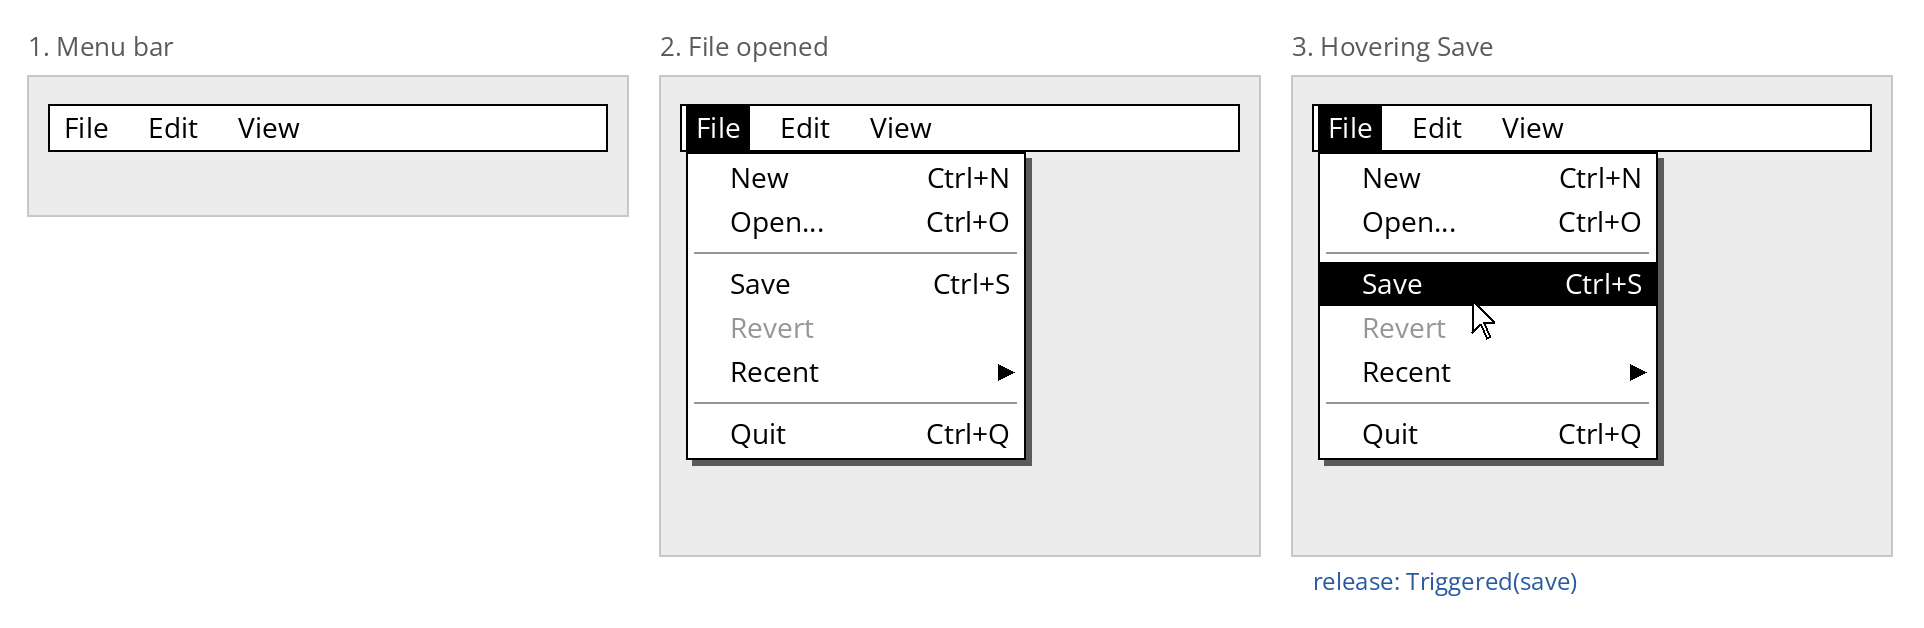
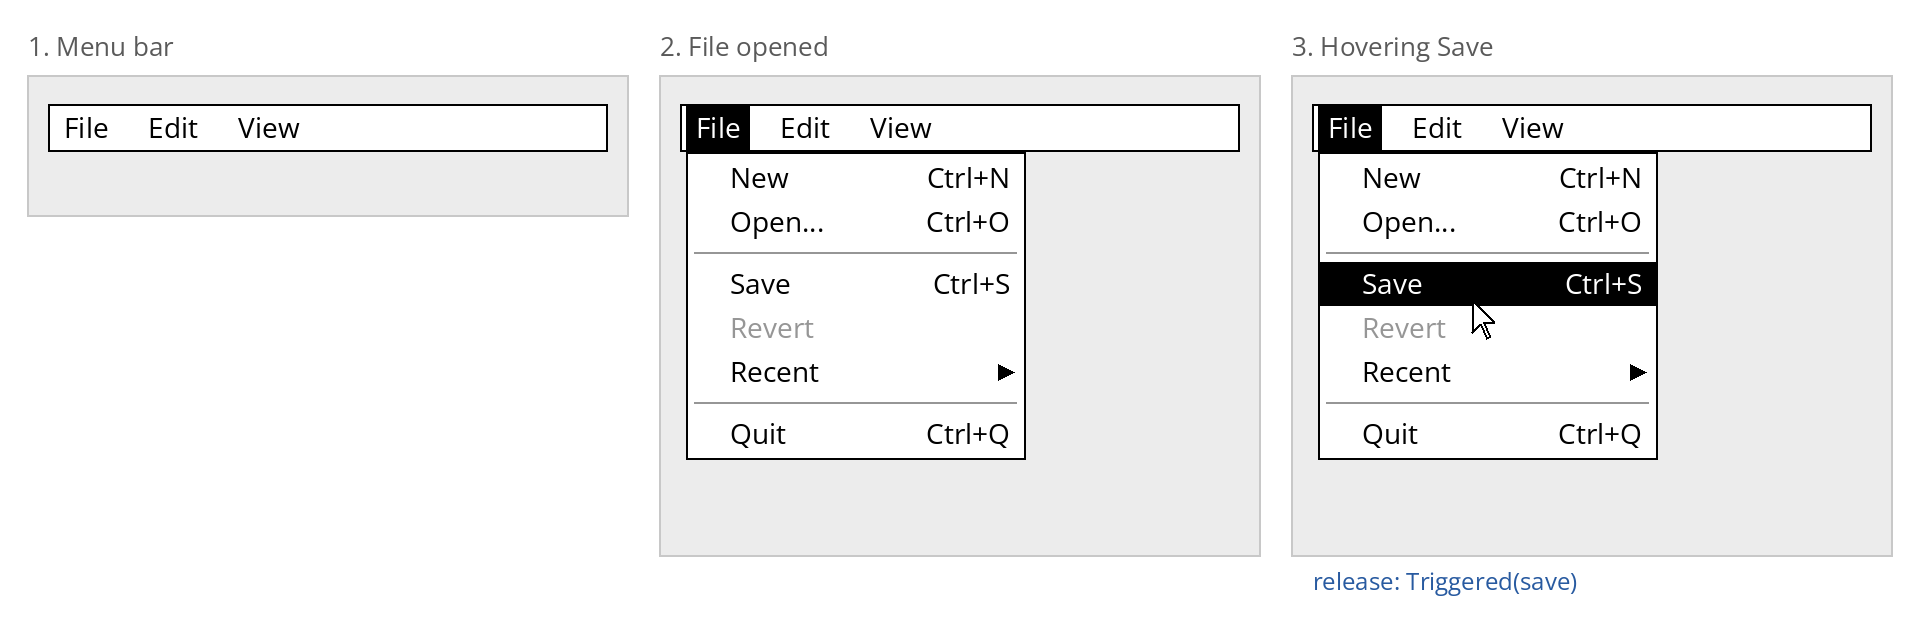
docs: no shadows (menus and pop-ups included)
Claude-Session: https://claude.ai/code/session_014QbAny3BSUJNBZtu6oJccA

Changed region(s): [[0.6861, 0.7261, 0.8732, 0.7564], [0.343, 0.7261, 0.5301, 0.7564]]

diff --git a/docs/mockups/generate.py b/docs/mockups/generate.py
@@ -198,7 +198,6 @@ class C:
     def menu(self, x, y, w, items, hover=None):
         """items: list of (label, shortcut, flags) flags in {'sep','disabled','sub','check'}"""
         h = sum(9 if "sep" in f else 22 for _, _, f in items) + 4
-        self.rect(x + 3, y + 3, w, h, fill=DARK, outline=None)   # drop shadow
         self.rect(x, y, w, h, fill=WHITE)
         cy = y + 2
         for n, (label, sc, f) in enumerate(items):

diff --git a/docs/ROADMAP_EXTENSIBLE_WIDGET_LIBRARY.md b/docs/ROADMAP_EXTENSIBLE_WIDGET_LIBRARY.md
@@ -18,7 +18,7 @@ This roadmap builds on the core modernization in #10 (`dyn Widget` tree, `Widget
 - **Shared behavior lives in the core.** Flags, states, focus, clipping, and events are implemented once (Epic 1, Epic 5), so a new widget gets them for free.
 - **IDs are the contract.** Widgets are addressed by stable IDs, like the numbered objects in classic resource files. Forms, generated constants, and callbacks all key off IDs.
 - **Runtime first, designer second.** Epic 6 builds everything Chassis needs (registry, properties, form file format, loader/writer, design-mode hooks) into Pushrod itself.
-- **Keep it stupid simple.** Widgets are flat: fills, one-pixel borders, and text. No glass, no bevels, no rounded corners. Fancy looks are up to the application (custom paint, 2.10 (#36); theming hooks, Epic 8, not scheduled). See [`DESIGN_PHILOSOPHY.md`](../DESIGN_PHILOSOPHY.md).
+- **Keep it stupid simple.** Widgets are flat: fills, one-pixel borders, and text. No glass, no bevels, no shadows, no rounded corners. Fancy looks are up to the application (custom paint, 2.10 (#36); theming hooks, Epic 8, not scheduled). See [`DESIGN_PHILOSOPHY.md`](../DESIGN_PHILOSOPHY.md).
 - **Modern names.** Older systems are credited for ideas only. Pushrod's flags, events, and callbacks use plain, modern names, collected in the *Naming* section so they can be reviewed in one place.
 - **Retained, with stable identity.** Widgets persist and keep stable IDs, which is what accessibility trees, caching, incremental updates, and form files all need.
 - **Engine separate from design.** The engine (tree, events, invalidation, paint API) and the design layer (widgets, defaults, appearance, themes) are separate modules with written specs (7.6 (#114)).

diff --git a/DESIGN_PHILOSOPHY.md b/DESIGN_PHILOSOPHY.md
@@ -46,7 +46,7 @@ the rest respond.
 | Pressed or selected | Inverted colors |
 | Disabled | Dithered |
 | Keyboard focus | A dotted outline |
-| Pop-up menus | A hard-edged, solid offset shadow so they read as floating (no blur) |
+| Pop-up menus | The same white body and one-pixel border as any other widget, drawn above what they cover |
 
 Widget frames are rectangles. A shape may be round only when the roundness *is* the control:
 the radio button's circle, the dial, the busy spinner.
@@ -59,7 +59,8 @@ Each widget's exact look and behavior is specified in its own roadmap file under
 - No glass, translucency, or blur.
 - No beveled edges, 3D shading, or embossing.
 - No rounded corners on widgets.
-- No gradients and no soft or blurred shadows.
+- No gradients and no shadows, including under menus and pop-ups. (Pop-up shadows may be
+  reconsidered after the MVP; they aren't needed for the look.)
 - No decorative animation. Animation only where it carries information (a progress bar's busy
   mode, the busy spinner), and it stops when nothing is happening.
 - No OS-native menus, dialogs, or controls.

diff --git a/docs/widgets/image-button.md b/docs/widgets/image-button.md
@@ -25,7 +25,7 @@ Each image shows the widget step by step, drawn in Pushrod's current style; blue
 
 ![2.21 step set 1: Image only, image left of label, image above label; normal, pressed, toggled, disabled](../mockups/2.21-1.png)
 
-Drawn flat, in the standard Pushrod style: fills, one-pixel borders, and text; inverted when pressed or selected, dithered when disabled, a dotted outline when focused. No bevels, gradients, glass, or rounded corners (see the [design philosophy](../../DESIGN_PHILOSOPHY.md)).
+Drawn flat, in the standard Pushrod style: fills, one-pixel borders, and text; inverted when pressed or selected, dithered when disabled, a dotted outline when focused. No bevels, gradients, shadows, glass, or rounded corners (see the [design philosophy](../../DESIGN_PHILOSOPHY.md)).
 
 ## How it responds
 

diff --git a/docs/widgets/glyph-button.md b/docs/widgets/glyph-button.md
@@ -25,7 +25,7 @@ Each image shows the widget step by step, drawn in Pushrod's current style; blue
 
 ![2.2 step set 1: 1. Idle 2. Pressed (fires immediately) 3. Held: repeats 4. Released 5. Disabled](../mockups/2.2-1.png)
 
-Drawn flat, in the standard Pushrod style: fills, one-pixel borders, and text; inverted when pressed or selected, dithered when disabled, a dotted outline when focused. No bevels, gradients, glass, or rounded corners (see the [design philosophy](../../DESIGN_PHILOSOPHY.md)).
+Drawn flat, in the standard Pushrod style: fills, one-pixel borders, and text; inverted when pressed or selected, dithered when disabled, a dotted outline when focused. No bevels, gradients, shadows, glass, or rounded corners (see the [design philosophy](../../DESIGN_PHILOSOPHY.md)).
 
 ## How it responds
 

diff --git a/docs/widgets/menu-bar-and-menus.md b/docs/widgets/menu-bar-and-menus.md
@@ -25,7 +25,7 @@ Each image shows the widget step by step, drawn in Pushrod's current style; blue
 
 ![2.11 step set 1: 1. Idle 2. File opened (overlay) 3. Hovering Save 4. Release: Save triggered](../mockups/2.11-1.png)
 
-Drawn flat, in the standard Pushrod style: fills, one-pixel borders, and text; inverted when pressed or selected, dithered when disabled, a dotted outline when focused. No bevels, gradients, glass, or rounded corners (see the [design philosophy](../../DESIGN_PHILOSOPHY.md)).
+Drawn flat, in the standard Pushrod style: fills, one-pixel borders, and text; inverted when pressed or selected, dithered when disabled, a dotted outline when focused. No bevels, gradients, shadows, glass, or rounded corners (see the [design philosophy](../../DESIGN_PHILOSOPHY.md)).
 
 ## How it responds
 

diff --git a/docs/widgets/radio-button.md b/docs/widgets/radio-button.md
@@ -25,7 +25,7 @@ Each image shows the widget step by step, drawn in Pushrod's current style; blue
 
 ![2.5 step set 1: 1. Medium checked 2. Pressing Large 3. Released: Large checked, Medium cleared](../mockups/2.5-1.png)
 
-Drawn flat, in the standard Pushrod style: fills, one-pixel borders, and text; inverted when pressed or selected, dithered when disabled, a dotted outline when focused. No bevels, gradients, glass, or rounded corners (see the [design philosophy](../../DESIGN_PHILOSOPHY.md)).
+Drawn flat, in the standard Pushrod style: fills, one-pixel borders, and text; inverted when pressed or selected, dithered when disabled, a dotted outline when focused. No bevels, gradients, shadows, glass, or rounded corners (see the [design philosophy](../../DESIGN_PHILOSOPHY.md)).
 
 ## How it responds
 

diff --git a/docs/widgets/column-browser.md b/docs/widgets/column-browser.md
@@ -39,7 +39,7 @@ Each image shows the widget step by step, drawn in Pushrod's current style; blue
 
 ![3.7 step set 2: Many columns: the view scrolls horizontally to keep the newest column visible](../mockups/3.7-2.png)
 
-Drawn flat, in the standard Pushrod style: fills, one-pixel borders, and text; inverted when pressed or selected, dithered when disabled, a dotted outline when focused. No bevels, gradients, glass, or rounded corners (see the [design philosophy](../../DESIGN_PHILOSOPHY.md)).
+Drawn flat, in the standard Pushrod style: fills, one-pixel borders, and text; inverted when pressed or selected, dithered when disabled, a dotted outline when focused. No bevels, gradients, shadows, glass, or rounded corners (see the [design philosophy](../../DESIGN_PHILOSOPHY.md)).
 
 ## How it responds
 

diff --git a/docs/widgets/check-box.md b/docs/widgets/check-box.md
@@ -25,7 +25,7 @@ Each image shows the widget step by step, drawn in Pushrod's current style; blue
 
 ![2.4 step set 1: 1. Unchecked 2. Pressed 3. Checked 4. Indeterminate 5. Focused 6. Disabled](../mockups/2.4-1.png)
 
-Drawn flat, in the standard Pushrod style: fills, one-pixel borders, and text; inverted when pressed or selected, dithered when disabled, a dotted outline when focused. No bevels, gradients, glass, or rounded corners (see the [design philosophy](../../DESIGN_PHILOSOPHY.md)).
+Drawn flat, in the standard Pushrod style: fills, one-pixel borders, and text; inverted when pressed or selected, dithered when disabled, a dotted outline when focused. No bevels, gradients, shadows, glass, or rounded corners (see the [design philosophy](../../DESIGN_PHILOSOPHY.md)).
 
 ## How it responds
 

diff --git a/docs/widgets/list-view.md b/docs/widgets/list-view.md
@@ -25,7 +25,7 @@ Each image shows the widget step by step, drawn in Pushrod's current style; blue
 
 ![4.5 step set 1: 1. Idle 2. Click selects 3. Shift-click extends 4. Double-click activates](../mockups/4.5-1.png)
 
-Drawn flat, in the standard Pushrod style: fills, one-pixel borders, and text; inverted when pressed or selected, dithered when disabled, a dotted outline when focused. No bevels, gradients, glass, or rounded corners (see the [design philosophy](../../DESIGN_PHILOSOPHY.md)).
+Drawn flat, in the standard Pushrod style: fills, one-pixel borders, and text; inverted when pressed or selected, dithered when disabled, a dotted outline when focused. No bevels, gradients, shadows, glass, or rounded corners (see the [design philosophy](../../DESIGN_PHILOSOPHY.md)).
 
 ## How it responds
 

diff --git a/docs/widgets/container.md b/docs/widgets/container.md
@@ -44,7 +44,7 @@ Each image shows the widget step by step, drawn in Pushrod's current style; blue
 
 ![5.3 step set 2: Resizing and moving the container: the content keeps its size and layout](../mockups/5.3-2.png)
 
-Drawn flat, in the standard Pushrod style: fills, one-pixel borders, and text; inverted when pressed or selected, dithered when disabled, a dotted outline when focused. No bevels, gradients, glass, or rounded corners (see the [design philosophy](../../DESIGN_PHILOSOPHY.md)).
+Drawn flat, in the standard Pushrod style: fills, one-pixel borders, and text; inverted when pressed or selected, dithered when disabled, a dotted outline when focused. No bevels, gradients, shadows, glass, or rounded corners (see the [design philosophy](../../DESIGN_PHILOSOPHY.md)).
 
 ## How it responds
 

diff --git a/docs/widgets/spinner.md b/docs/widgets/spinner.md
@@ -25,7 +25,7 @@ Each image shows the widget step by step, drawn in Pushrod's current style; blue
 
 ![4.10 step set 1: Spinner frames while running, stopped, and the outline-mode fallback](../mockups/4.10-1.png)
 
-Drawn flat, in the standard Pushrod style: fills, one-pixel borders, and text; inverted when pressed or selected, dithered when disabled, a dotted outline when focused. No bevels, gradients, glass, or rounded corners (see the [design philosophy](../../DESIGN_PHILOSOPHY.md)).
+Drawn flat, in the standard Pushrod style: fills, one-pixel borders, and text; inverted when pressed or selected, dithered when disabled, a dotted outline when focused. No bevels, gradients, shadows, glass, or rounded corners (see the [design philosophy](../../DESIGN_PHILOSOPHY.md)).
 
 ## How it responds
 
